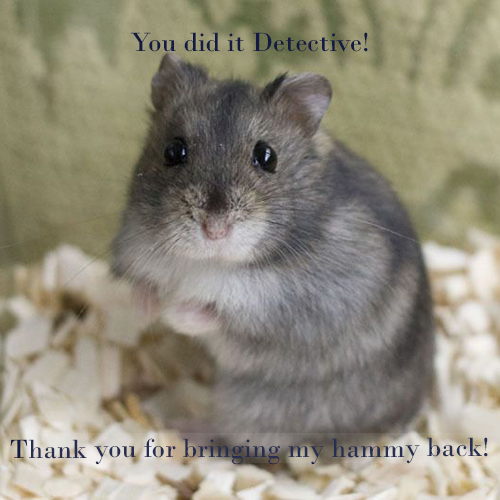
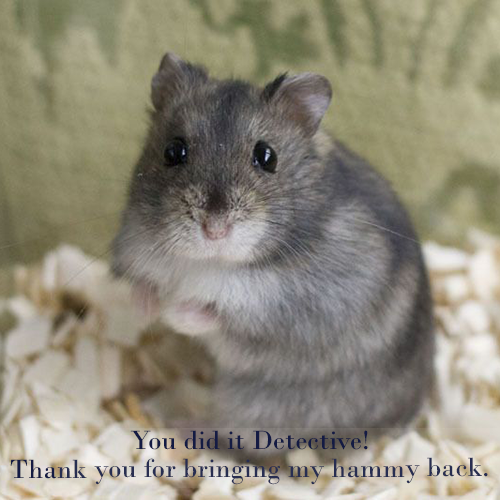
update

Changed region(s): [[0.03, 0.84, 0.99, 0.96], [0.51, 0.06, 0.75, 0.12], [0.27, 0.06, 0.48, 0.12]]

diff --git a/game/sketch_220425a/p5js-temp-sketch_220425a17233011984116038261.js b/game/sketch_220425a/p5js-temp-sketch_220425a17233011984116038261.js
@@ -12,13 +12,13 @@ function preload(){
     img2 = loadImage('https://saraim1.github.io/images/hammy1.png');
         img3 = loadImage('https://saraim1.github.io/images/desk.png');
            img4 = loadImage('https://saraim1.github.io/images/room.png');
-               img5 = loadImage('https://saraim1.github.io/images/hammy2.png');
+               img5 = loadImage('https://saraim1.github.io/images/hammyend.png');
   beginImg = loadImage ('https://saraim1.github.io/images/HamsterDetective.png');
 }
 
 function setup() {
   createCanvas(600,600);
-  let c = color(200, 100, 100); //textcolor
+  let c = color(255, 255); //textcolor
   fill(c);
   textAlign(CENTER);
   textStyle(BOLD);
@@ -50,6 +50,8 @@ if(gameState == "L3"){
 }
 if(gameState == "Win"){
     background(img5);
+       text(("Score: " + score), width/2, 27);
+
   Win();
 }
 
@@ -113,7 +115,7 @@ function levelThree(){
      ballx = random(width-115);
     bally = random(height-115); 
     score = score + 1;
-    ballSize = ballSize -1;
+   // ballSize = ballSize -1;
   }
   
   if(score>=15){
@@ -132,7 +134,7 @@ function levelThree(){
 } //end of level 3
 
 function Win(){
-text("Win", width/2, height-530);
-text("Thank you for bringing my hammy back!", width/2, height-20);
+//text("Win", width/2, height-530);
+//text("Thank you for bringing my hammy back!", width/2, height-20);
 
 } //end of game

diff --git a/game/sketch_220425a/index.html b/game/sketch_220425a/index.html
@@ -5,7 +5,7 @@
 
   <!-- PLEASE NO CHANGES BELOW THIS LINE (UNTIL I SAY SO) -->
   <script language="javascript" type="text/javascript" src="libraries/p5.min.js"></script>
-  <script language="javascript" type="text/javascript" src="p5js-temp-sketch_220425a9253698454450336221.js"></script>
+  <script language="javascript" type="text/javascript" src="p5js-temp-sketch_220425a17233011984116038261.js"></script>
   <!-- OK, YOU CAN MAKE CHANGES BELOW THIS LINE AGAIN -->
 
   <!-- This line removes any default padding and style.
